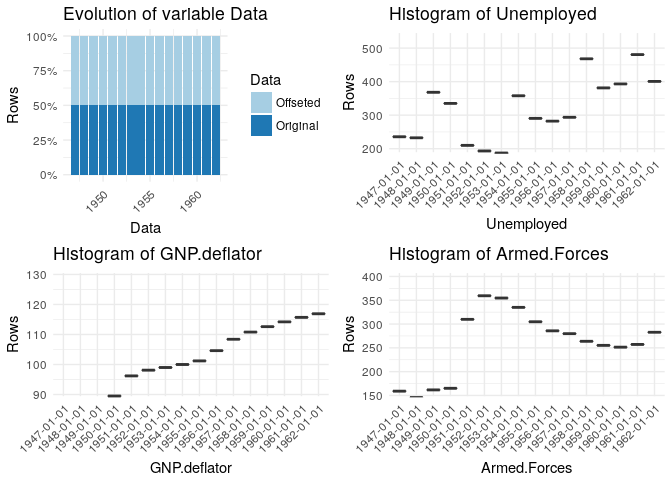
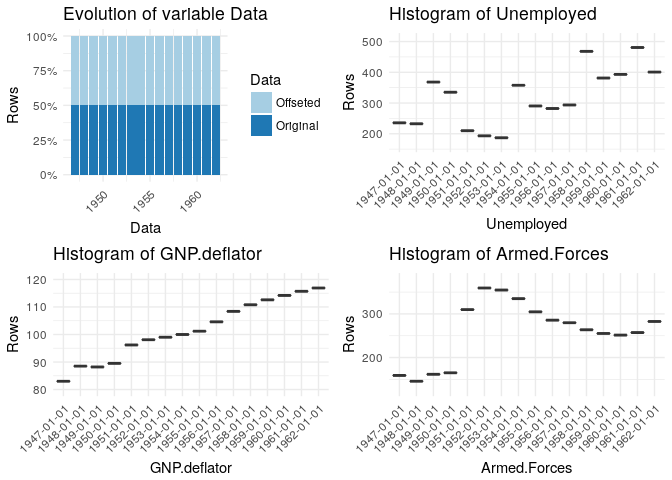
Rescale readme plots

diff --git a/README.md b/README.md
@@ -68,6 +68,7 @@ xray::anomalies(badLongley)
 distrLongley=longley
 distrLongley$testCategorical=c(rep('One',7), rep('Two', 9))
 xray::distributions(distrLongley)
+#> ===========================================================================
 ```
 
 ![](tools/README-example-distributions-1.png)![](tools/README-example-distributions-2.png)
@@ -101,6 +102,7 @@ ndateLongley=dateLongley
 ndateLongley$GNP=dateLongley$GNP+10
 ndateLongley$Data='Offseted'
 xray::timebased(rbind(dateLongley, ndateLongley), 'Year')
+#> ===========================================================================
 ```
 
 ![](tools/README-example-timebased-1.png)
